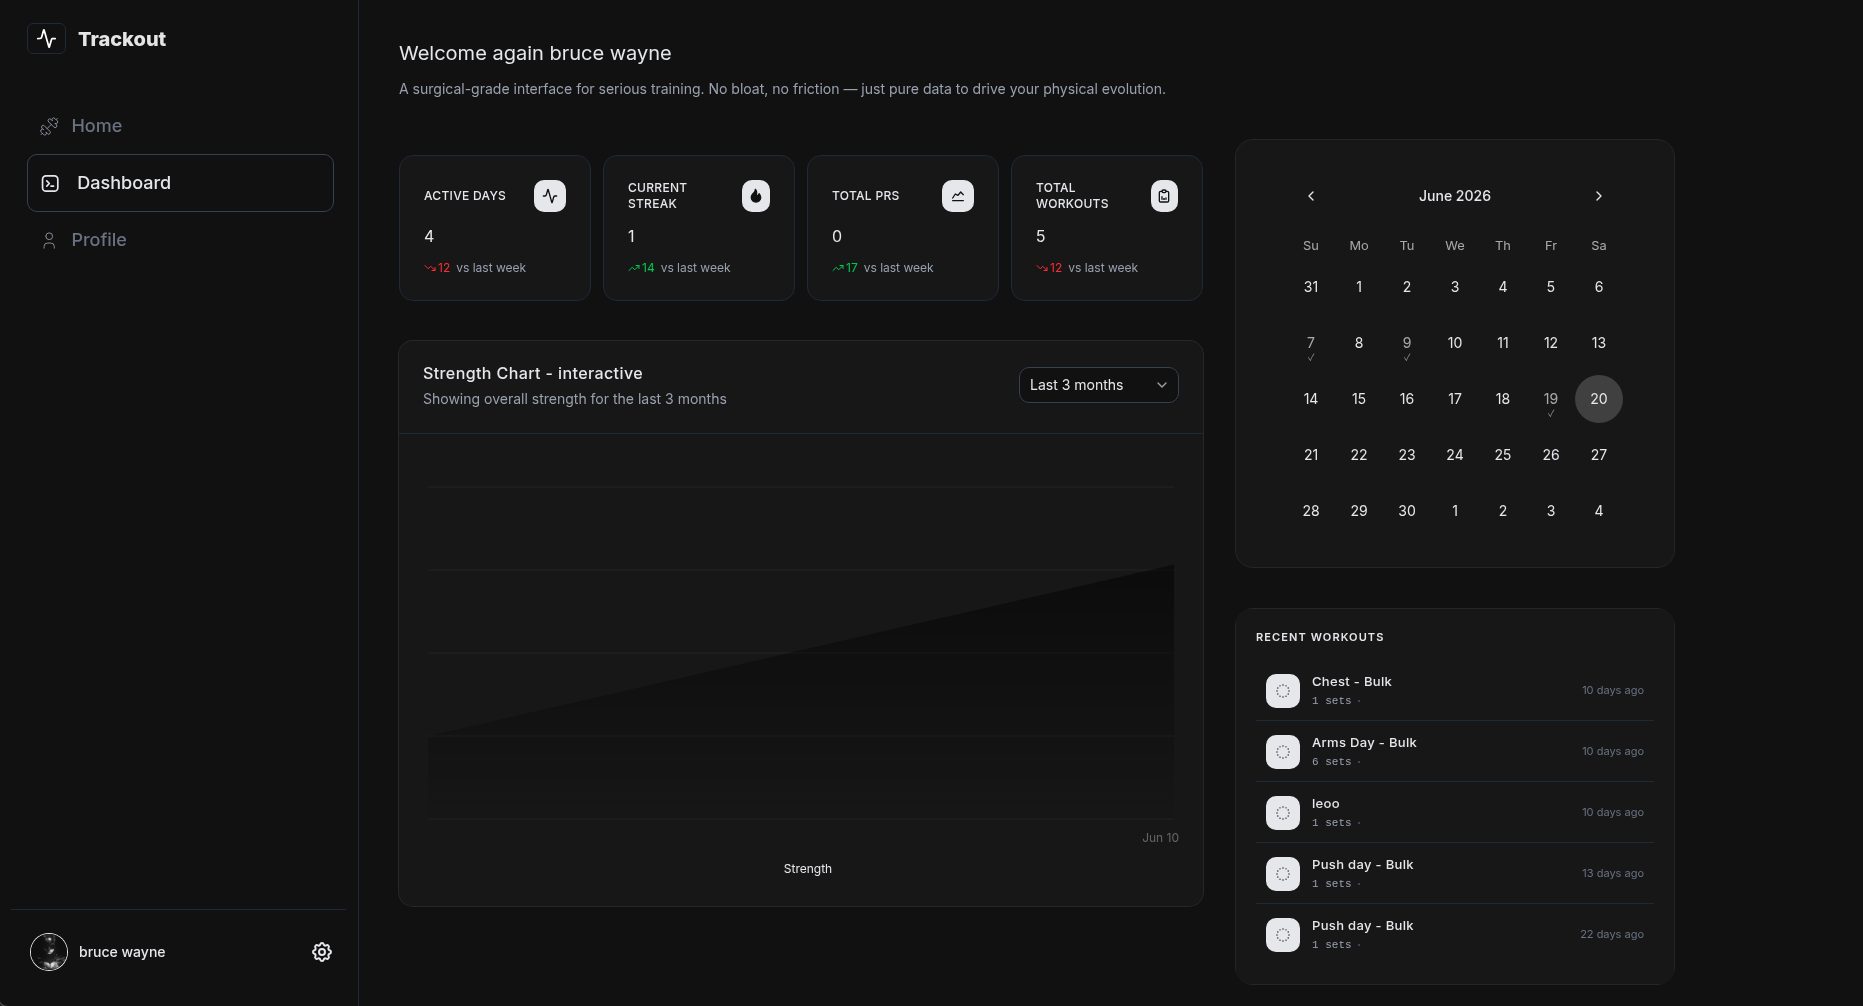
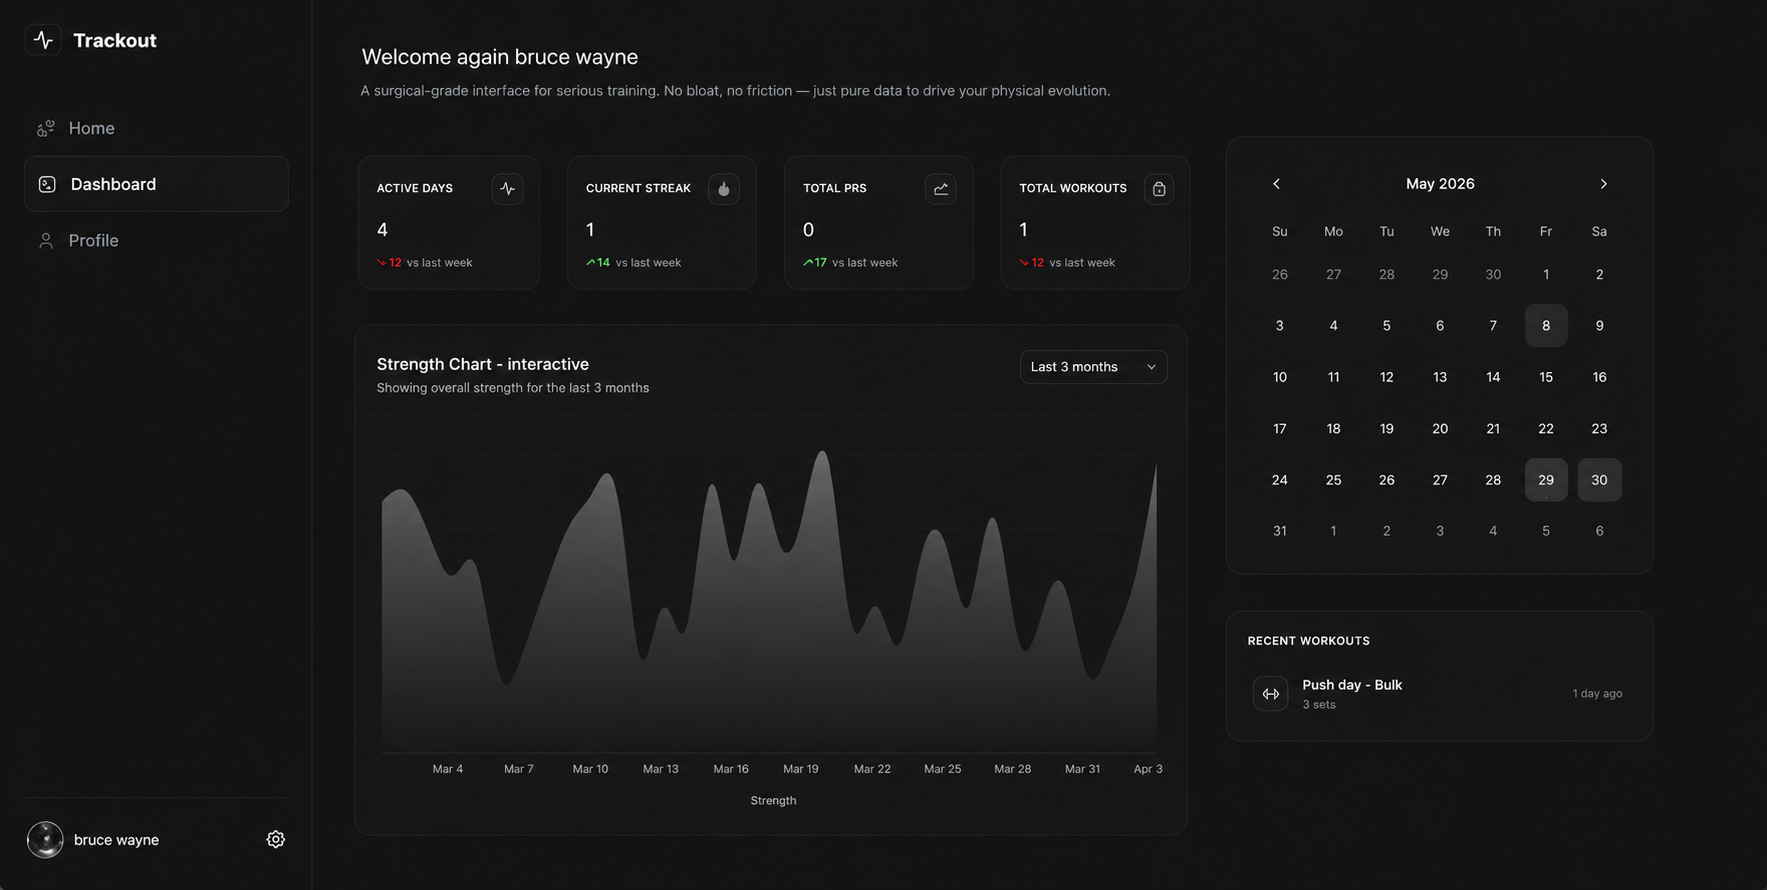
style(ui): enhance dark mode calendar and mockup shadows

diff --git a/client/src/pages/DashboardPage.tsx b/client/src/pages/DashboardPage.tsx
@@ -159,8 +159,8 @@ const DashboardPage = () => {
                             <ChartAreaInteractive />
                         </div>
                     </div>
-                    <div className="flex h-screen flex-col gap-10 px-5 md:flex-row md:items-start lg:flex-col lg:px-0">
-                        <div className="w-full shrink-0 overflow-hidden rounded-2xl border border-neutral-200 bg-white p-5 md:w-80 lg:w-110 dark:border-neutral-800 dark:bg-neutral-900 dark:text-line-color">
+                    <div className="flex h-screen flex-col gap-10 md:flex-row md:items-start lg:flex-col lg:px-0">
+                        <div className="w-full shrink-0 overflow-hidden rounded-2xl border border-neutral-200 bg-white p-5 md:w-80 lg:w-120 dark:border-neutral-800 dark:bg-neutral-900 dark:text-line-color">
                             <Calendar size="md" className="w-full bg-white  rounded-2xl md:w-auto lg:w-full dark:bg-neutral-900 dark:text-line-color " />
                         </div>
                         <div className="h-auto w-full rounded-2xl border border-neutral-200 bg-white dark:border-neutral-800 dark:bg-near-black dark:">

diff --git a/client/src/components/ui/Calender.tsx b/client/src/components/ui/Calender.tsx
@@ -17,7 +17,7 @@ const CalenderComponent = ({ size = "lg", className="", ...props }) => {
                 <Calendar
                     mode="single"
                     disabled={ActiveDates}
-                    className={`w-full bg-white shadow-none dark:bg-neutral-900 dark:text-line-color ${size === "lg" ? "[--cell-radius:--spacing(10)] md:[--cell-size:--spacing(10)] lg:[--cell-size:--spacing(12)]" : " [--cell-radius:--spacing(9)] md:[--cell-size:--spacing(10)] lg:[--cell-size:--spacing(12)]"}`}
+                    className={`w-full bg-white shadow-none dark:bg-neutral-900 dark:text-line-color ${size === "lg" ? "[--cell-radius:--spacing(10)] md:[--cell-size:--spacing(10)] lg:[--cell-size:--spacing(13)]" : " [--cell-radius:--spacing(9)] md:[--cell-size:--spacing(10)] lg:[--cell-size:--spacing(14)]"}`}
                     modifiers={{
                         active: ActiveDates,
                     }}

diff --git a/client/src/components/dashboard/DashBoardChart.tsx b/client/src/components/dashboard/DashBoardChart.tsx
@@ -14,7 +14,7 @@ import { useStats } from "../../stores/user.store"
 
 export const description = "An interactive area chart"
 
-export default function ChartAreaInteractive({ className="" }) {
+export default function ChartAreaInteractive({ className = "" }) {
     const [timeRange, setTimeRange] = React.useState("90d")
 
     const chartData = useStats((state) => state.stats?.chartStats)
@@ -29,7 +29,7 @@ export default function ChartAreaInteractive({ className="" }) {
         },
     }
 
-    const filteredData = chartData?.filter((item:any) => {
+    const filteredData = chartData?.filter((item: any) => {
         const date = new Date(item.date)
         const referenceDate = new Date("2024-06-30")
         let daysToSubtract = 90

diff --git a/client/src/pages/LandingPage.tsx b/client/src/pages/LandingPage.tsx
@@ -82,7 +82,7 @@ const DashboardMockup = () => {
         <div className="my-20 ml-15 flex h-150 w-300 cursor-default items-center justify-center overflow-hidden rounded-lg p-5 select-none lg:ml-0 lg:w-auto">
             <img
                 src={theme === "light"? "./mockup.png":"/mockup-dark.png"}
-                className="shadow-aesthetic h-full w-full cursor-default rounded-lg select-none"
+                className="shadow-aesthetic h-full w-full cursor-default rounded-lg select-none dark:shadow-aesthetic-dark"
             />
         </div>
     )

diff --git a/client/src/index.css b/client/src/index.css
@@ -31,6 +31,7 @@ img {
     --shadow-standard:
         0px 2px 3px -1px rgba(0, 0, 0, 0.1), 0px 1px 0px 0px rgba(25, 28, 33, 0.02),
         0px 0px 0px 1px rgba(25, 28, 33, 0.08);
+--shadow-aesthetic-dark: 0 6px 20px rgb(0 0 0 / 0.4);
     --shadow-aesthetic: 0 3px 10px rgb(0, 0, 0, 0.1);
     --shadow-euphonious: 0px 10px 1px rgba(221, 221, 221, 1), 0 10px 20px rgba(204, 204, 204, 1);
 }
